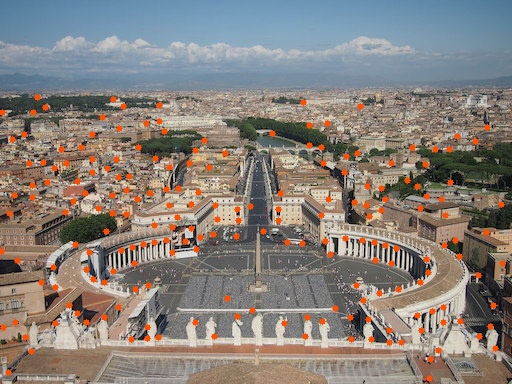
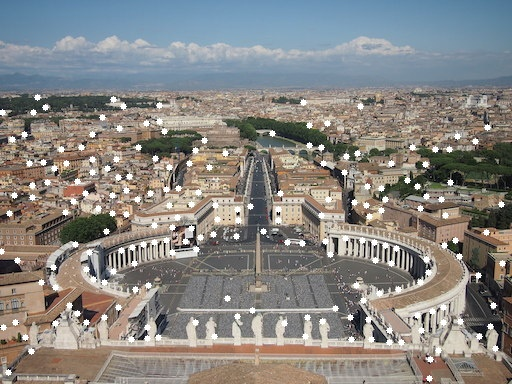
[L2] Use white dots

diff --git a/lab2/lab2.py b/lab2/lab2.py
@@ -18,6 +18,6 @@ feature_list = cv2.goodFeaturesToTrack(image, 200, 0.001, 11.0).reshape((-1,2))
 image = cv2.imread(ORIGINAL_FILE, cv2.CV_LOAD_IMAGE_COLOR)
 
 for (x, y) in feature_list:
-  cv2.circle(image, (x, y), RADIUS, (0, 78, 255, 0), THICKNESS, LINE_TYPE, SHIFT)
+  cv2.circle(image, (x, y), RADIUS, (255, 255, 255, 0), THICKNESS, LINE_TYPE, SHIFT)
 
 cv2.imwrite('corners.jpg', image)
